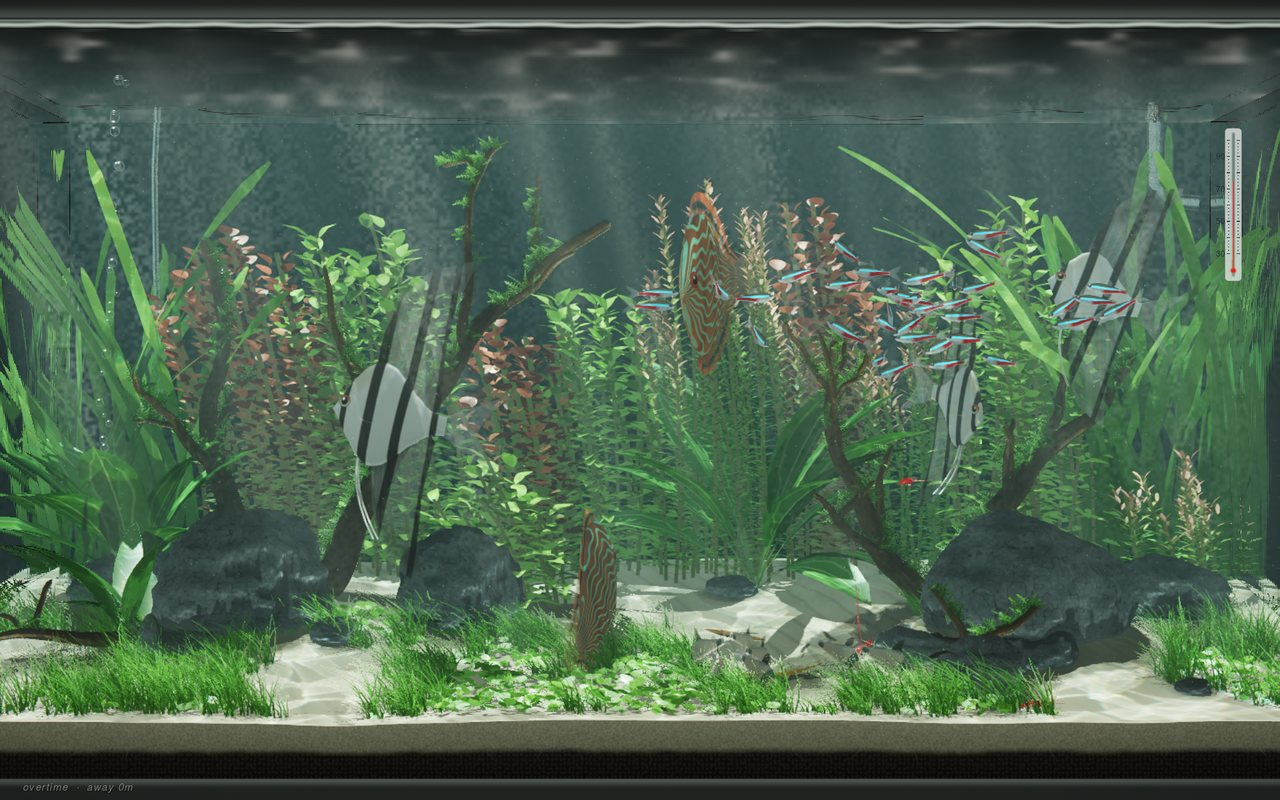
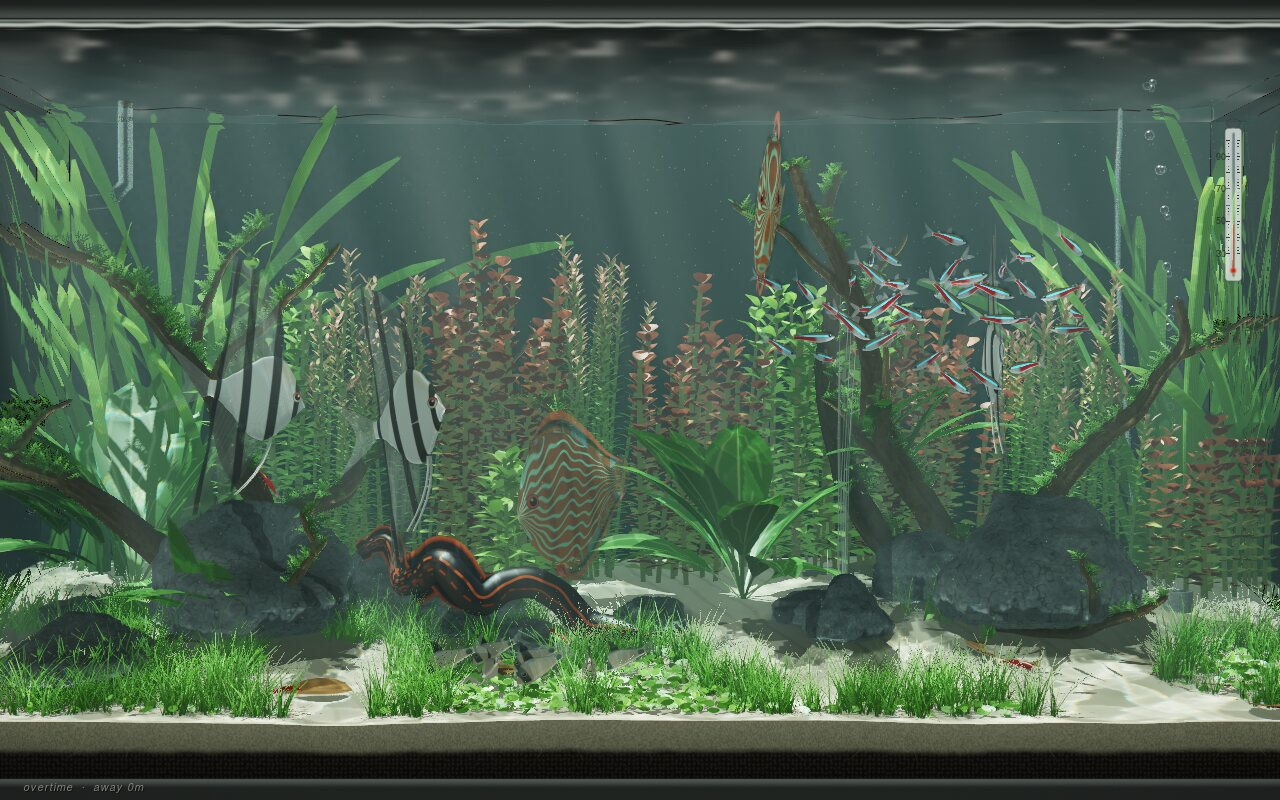
aquarium: fold light shafts into TAA so the water stops flickering
The shafts were ray-marched with per-frame jitter but added after TAA,
so their noise reached the screen raw as crawling 4x4 speckle. Add them
to the current frame inside TAA instead, widening the history clamp by
the shafts' own quarter-res neighbourhood. Frozen-time flicker (mean
second difference) drops from 4.27 to 1.03. Fresh screenshot.

diff --git a/aquarium/aquarium.c b/aquarium/aquarium.c
@@ -1764,24 +1764,35 @@ static const char *FS_RELIGHT = GLSL(
  * needs clamping where things do */
 static const char *FS_TAA = GLSL(
     in vec2 vUV;
-    uniform sampler2D uCur, uHist;
+    uniform sampler2D uCur, uHist, uAux, uShafts;
     uniform float uAlpha;
     uniform int uClamp;
+    /* the light shafts march from a fresh offset every frame, so they go
+     * through the history too, and widen the clamp by their own spread */
+    vec3 shaft(ivec2 p, vec2 o) {
+        return texture(uShafts, (vec2(p) + 0.5) / vec2(textureSize(uCur, 0)) + o / vec2(textureSize(uShafts, 0))).rgb;
+    }
     void main() {
         ivec2 p = ivec2(gl_FragCoord.xy);
         vec3 c = texelFetch(uCur, p, 0).rgb;
         vec3 h = texelFetch(uHist, p, 0).rgb;
+        vec2 aux = texelFetch(uAux, p, 0).rg;
+        float wet = aux.r > 0.0 || abs(aux.g) > 0.02 ? 1.0 : 0.0;
+        vec3 sh = shaft(p, vec2(0.0)) * wet;
         if (uClamp == 1) {
-            vec3 mn = c, mx = c;
+            vec3 mn = c, mx = c, smn = sh, smx = sh;
             for (int k = 0; k < 4; k++) {
                 ivec2 o = k == 0 ? ivec2(1, 0) : k == 1 ? ivec2(-1, 0) : k == 2 ? ivec2(0, 1) : ivec2(0, -1);
                 vec3 s = texelFetch(uCur, p + o, 0).rgb;
                 mn = min(mn, s); mx = max(mx, s);
+                s = shaft(p, vec2(o)) * wet;
+                smn = min(smn, s); smx = max(smx, s);
             }
+            mn += smn; mx += smx;
             vec3 ext = (mx - mn) * 0.25;
             h = clamp(h, mn - ext, mx + ext);
         }
-        o0 = vec4(mix(h, c, uAlpha), 1.0);
+        o0 = vec4(mix(h, c + sh, uAlpha), 1.0);
     });
 
 /* the view ray through a pixel: from the glass point G into the water */
@@ -1837,7 +1848,6 @@ static const char *FS_COMP = GLSL(
     in vec2 vUV;
     uniform sampler2D uCol;
     uniform sampler2D uAux;
-    uniform sampler2D uShafts;
     uniform vec4 uLay;       /* the whole canvas rect */
     uniform float uExpo;
     uniform float uCA;
@@ -1891,7 +1901,6 @@ static const char *FS_COMP = GLSL(
                 c.b = texture(uCol, uv - off).b;
             }
         }
-        if (aux.r > 0.0 || abs(mk) > 0.02) c += texture(uShafts, uv).rgb;
         c *= uExpo;
         /* a soft vignette over the whole wall */
         vec2 lv = (cv - uLay.xy) / uLay.zw - 0.5;
@@ -4761,31 +4770,12 @@ static void render(double t, double wt, GLuint target) {
     tq_end();
     glDisable(GL_DEPTH_TEST);
 
-    /* temporal antialiasing */
-    tq_begin(3);
-    int prev = taa_cur;
-    taa_cur ^= 1;
-    glBindFramebuffer(GL_FRAMEBUFFER, fbo_taa[taa_cur]);
-    glUseProgram(p_taa);
-    glUniform1i(U(p_taa, "uCur"), 3);
-    glUniform1i(U(p_taa, "uHist"), 4);
-    glUniform1f(U(p_taa, "uAlpha"), taa_frames ? taa_alpha : 1.0f);
-    glUniform1i(U(p_taa, "uClamp"), taa_clamp);
-    glActiveTexture(GL_TEXTURE3);
-    glBindTexture(GL_TEXTURE_2D, tex_cur);
-    glActiveTexture(GL_TEXTURE4);
-    glBindTexture(GL_TEXTURE_2D, tex_taa[prev]);
-    glActiveTexture(GL_TEXTURE0);
-    fullscreen();
-    taa_frames++;
-    tq_end();
-
-    /* light shafts, at a quarter size */
+    /* light shafts, at a quarter size, for the antialiasing to fold in */
+    float vr[4] = {view_x, view_y, view_w, view_h}, cc[3] = {cam_cx, cam_cy, cam_f};
     tq_begin(4);
     glBindFramebuffer(GL_FRAMEBUFFER, fbo_sh);
     glViewport(0, 0, (sw_ + 3) / 4, (sh_ + 3) / 4);
     set_common(p_shafts);
-    float vr[4] = {view_x, view_y, view_w, view_h}, cc[3] = {cam_cx, cam_cy, cam_f};
     glUniform4fv(U(p_shafts, "uView"), 1, vr);
     glUniform3fv(U(p_shafts, "uCanCam"), 1, cc);
     glUniform1i(U(p_shafts, "uAux"), 3);
@@ -4799,6 +4789,32 @@ static void render(double t, double wt, GLuint target) {
     fullscreen();
     tq_end();
 
+    /* temporal antialiasing */
+    tq_begin(3);
+    int prev = taa_cur;
+    taa_cur ^= 1;
+    glBindFramebuffer(GL_FRAMEBUFFER, fbo_taa[taa_cur]);
+    glViewport(0, 0, sw_, sh_);
+    glUseProgram(p_taa);
+    glUniform1i(U(p_taa, "uCur"), 3);
+    glUniform1i(U(p_taa, "uHist"), 4);
+    glUniform1f(U(p_taa, "uAlpha"), taa_frames ? taa_alpha : 1.0f);
+    glUniform1i(U(p_taa, "uClamp"), taa_clamp);
+    glUniform1i(U(p_taa, "uAux"), 5);
+    glUniform1i(U(p_taa, "uShafts"), 6);
+    glActiveTexture(GL_TEXTURE3);
+    glBindTexture(GL_TEXTURE_2D, tex_cur);
+    glActiveTexture(GL_TEXTURE4);
+    glBindTexture(GL_TEXTURE_2D, tex_taa[prev]);
+    glActiveTexture(GL_TEXTURE5);
+    glBindTexture(GL_TEXTURE_2D, tex_aux);
+    glActiveTexture(GL_TEXTURE6);
+    glBindTexture(GL_TEXTURE_2D, tex_sh);
+    glActiveTexture(GL_TEXTURE0);
+    fullscreen();
+    taa_frames++;
+    tq_end();
+
     /* the composite */
     tq_begin(5);
     glBindFramebuffer(GL_FRAMEBUFFER, target);
@@ -4810,15 +4826,12 @@ static void render(double t, double wt, GLuint target) {
     glUniform4fv(U(p_comp, "uLay"), 1, lay);
     glUniform1i(U(p_comp, "uCol"), 4);
     glUniform1i(U(p_comp, "uAux"), 3);
-    glUniform1i(U(p_comp, "uShafts"), 5);
     glUniform1f(U(p_comp, "uExpo"), 1.0f);
     glUniform1f(U(p_comp, "uCA"), focus_on ? 0.0f : 1.0f);
     glActiveTexture(GL_TEXTURE3);
     glBindTexture(GL_TEXTURE_2D, tex_aux);
     glActiveTexture(GL_TEXTURE4);
     glBindTexture(GL_TEXTURE_2D, tex_taa[taa_cur]);
-    glActiveTexture(GL_TEXTURE5);
-    glBindTexture(GL_TEXTURE_2D, tex_sh);
     glActiveTexture(GL_TEXTURE0);
     fullscreen();
     tq_end();
